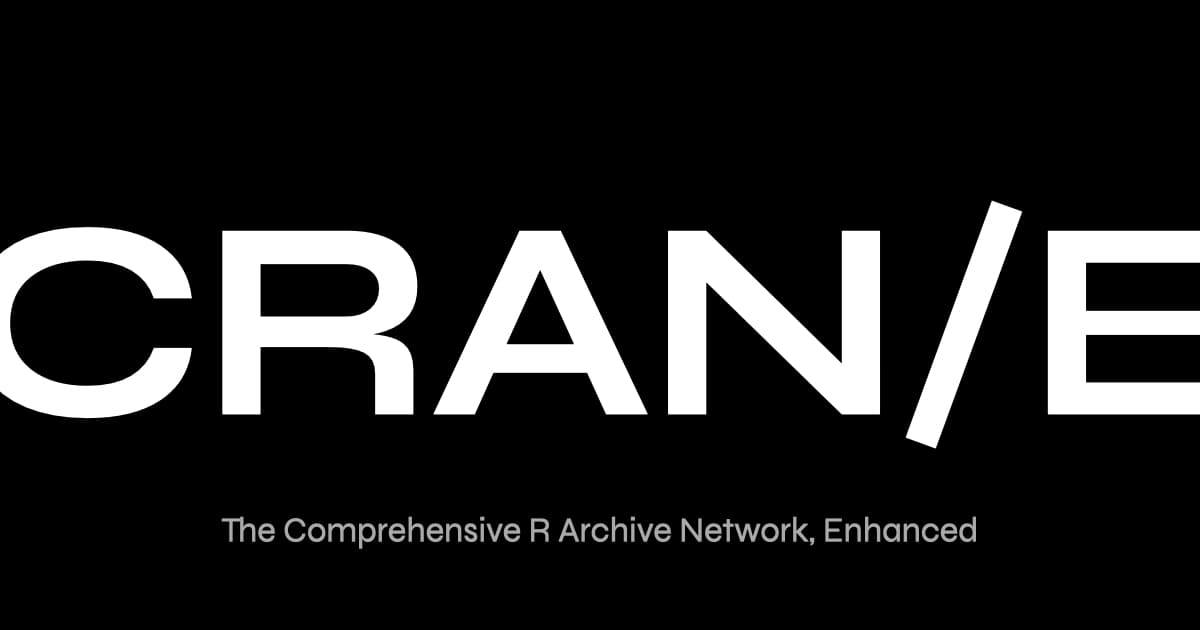
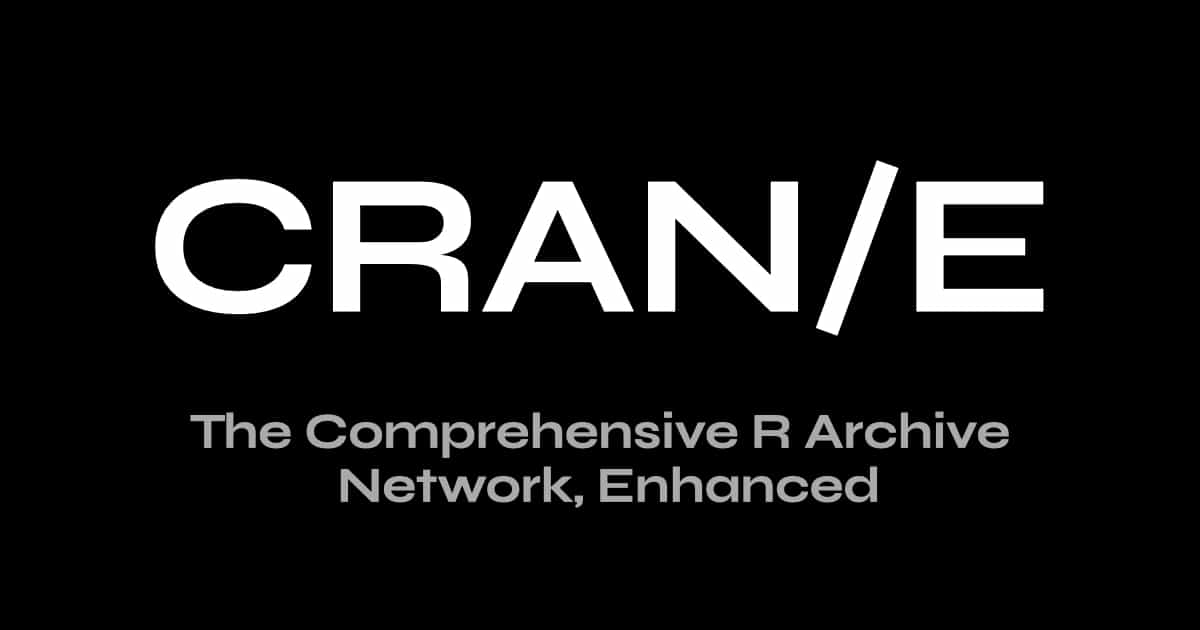
chore: remove debug seo-blockers

Changed region(s): [[0.0, 0.2413, 1.0, 0.8746]]

diff --git a/web/src/lib/seo/views/BaseMeta.svelte b/web/src/lib/seo/views/BaseMeta.svelte
@@ -12,8 +12,6 @@
 </script>
 
 <SvelteSeo
-  nofollow
-  noindex
   title="CRAN/E | {title}"
   {description}
   keywords="r, cran, packages, search, engine"
@@ -25,7 +23,7 @@
     url,
     images: [
       {
-        url: 'https://cran-e.com/images/og/cover-01.jpg',
+        url: 'https://cran-e.com/images/og/cover-02.jpg',
         width: 1200,
         height: 630,
         alt: 'CRAN/E logo in written form, white text on a black background'
